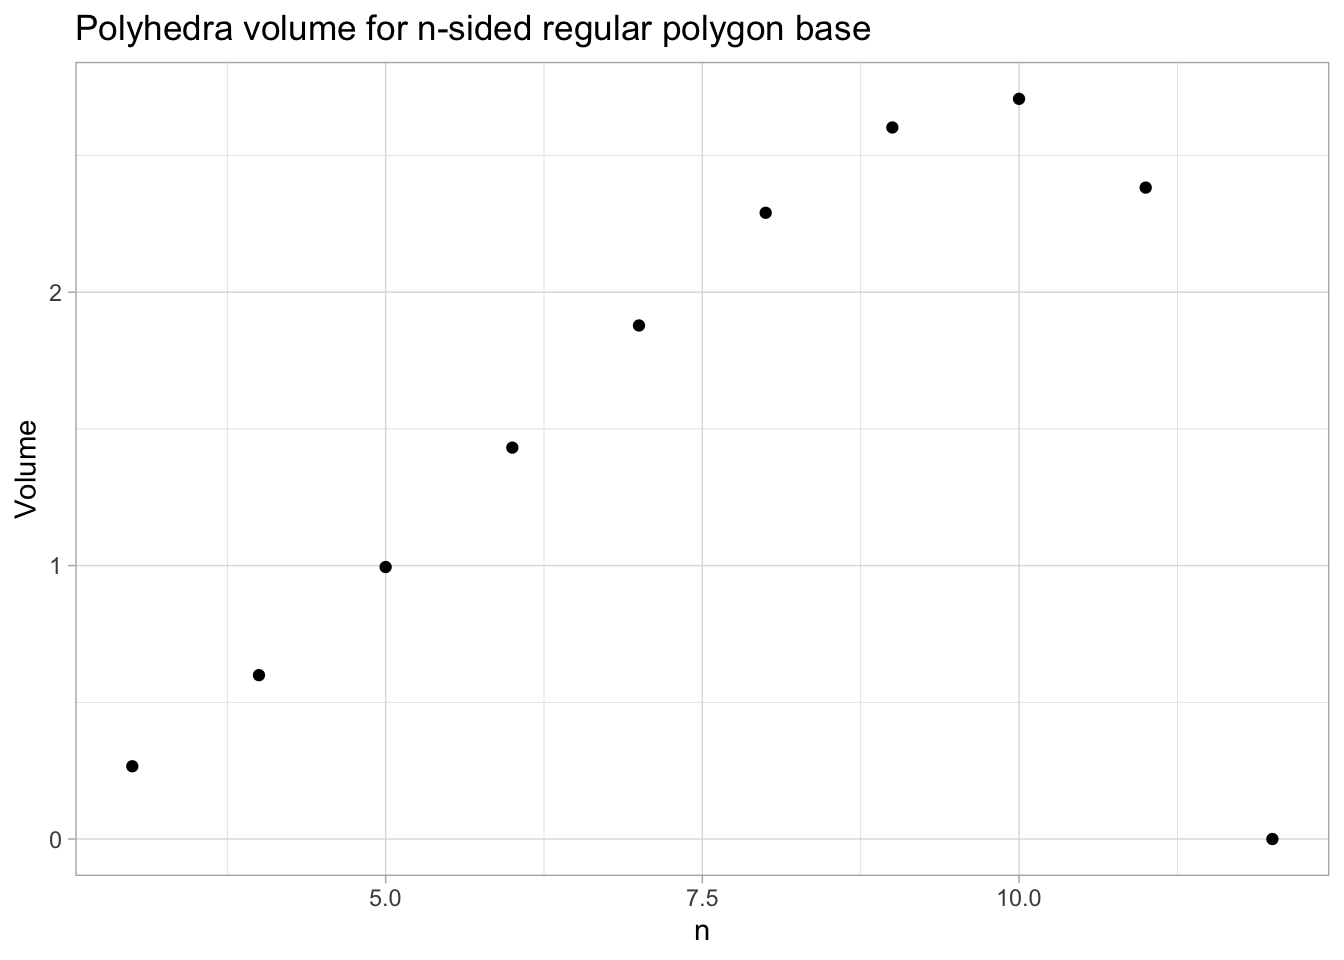
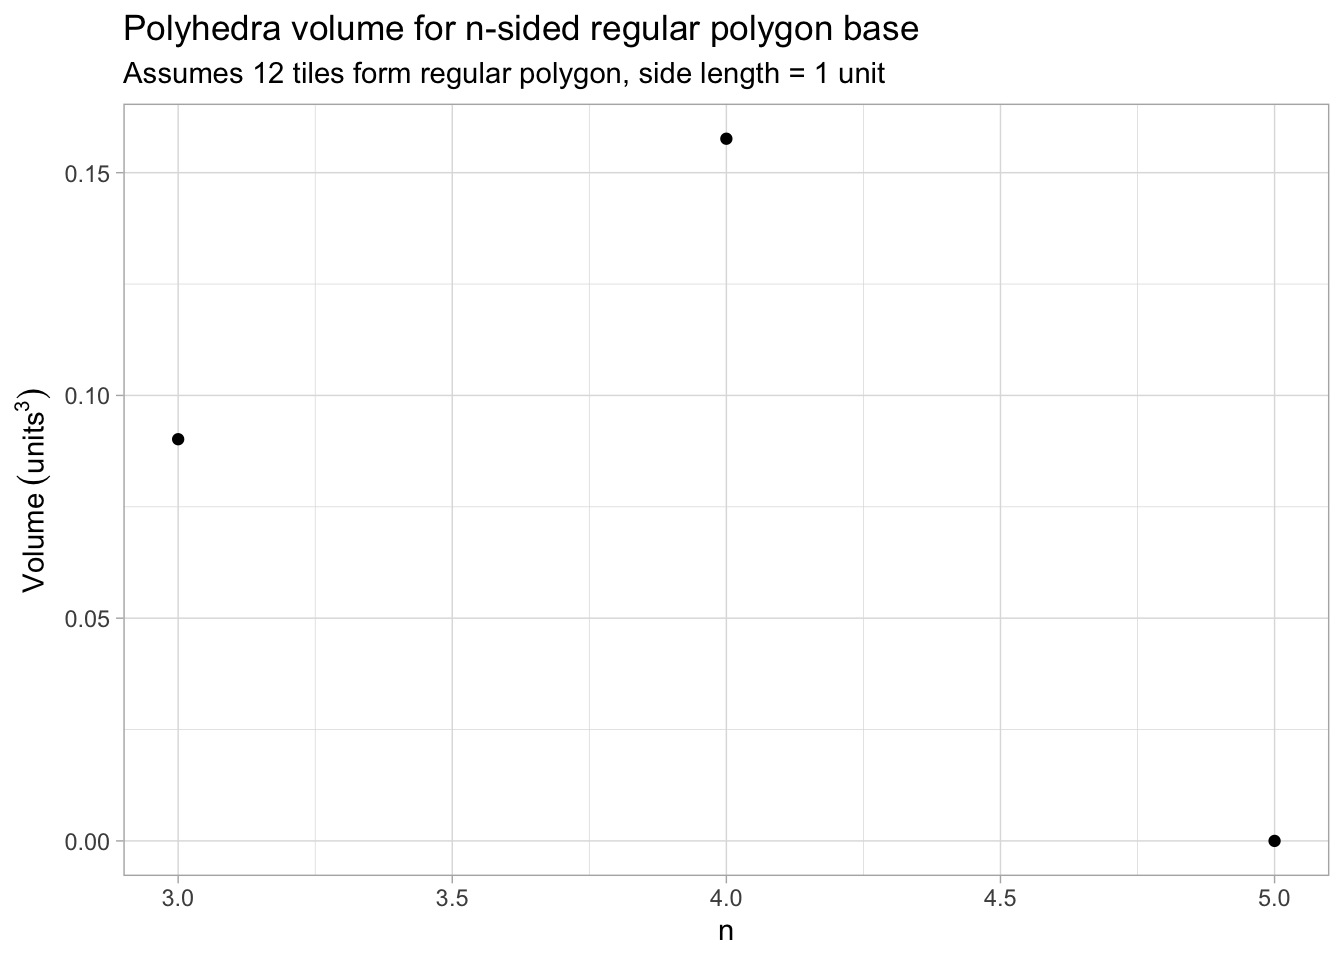
Update draft of riddler polyhedra

diff --git a/content/post/2020-01-31-riddler-magna-tiles-polyhedra.html b/content/post/2020-01-31-riddler-magna-tiles-polyhedra.html
@@ -20,61 +20,62 @@ tags:
 If Robert wanted to maximize the volume contained within the resulting pyramid (presumably to store as much candy for his daughter as possible), how many tiles should he use?</p>
 </blockquote>
 <hr />
-<p>Welcome back to your trigonometry class!
-<img src="https://sites.google.com/site/therealworldtrigonometry/_/rsrc/1460486510342/home/image.gif" alt="Trig class" /></p>
-<hr />
 <div id="results" class="section level2">
 <h2>Results</h2>
-<p>Let’s save the trig, and check out the results!</p>
-<p><img src="/post/2020-01-31-riddler-magna-tiles-polyhedra_files/figure-html/run_simulation-1.png" width="672" /></p>
-<p><img src="/post/2020-01-31-riddler-magna-tiles-polyhedra_files/figure-html/run_simulation_2-1.png" width="672" /></p>
-<p><img src="/post/2020-01-31-riddler-magna-tiles-polyhedra_files/figure-html/run_simulation_3-1.png" width="672" /></p>
+<p>Let’s save the trig for a moment, and check out the results!</p>
+<p><img src="/post/2020-01-31-riddler-magna-tiles-polyhedra_files/figure-html/plot_main_answer-1.png" width="672" /></p>
+<p>Instead of assuming that it lies flat with 12 tiles, let’s try out some
+other values.</p>
+<p><img src="/post/2020-01-31-riddler-magna-tiles-polyhedra_files/figure-html/plot_other_variants-1.png" width="672" /></p>
+<hr />
+<div class="figure">
+<img src="https://sites.google.com/site/therealworldtrigonometry/_/rsrc/1460486510342/home/image.gif" alt="Brace yourself - the trig is coming!" />
+<p class="caption"><em>Brace yourself - the trig is coming!</em></p>
+</div>
+<hr />
 </div>
 <div id="approach" class="section level2">
 <h2>Approach</h2>
-<p>Let’s start by looking at the tile. We know that 12 of these tiles will lay
-flat in a dodecahedron. That already tells us we have a 30-75-75 isoceles
-triangle.
-<span class="math display">\[
-\begin{aligned}
-\theta &amp; = \frac{2\pi}{f} \\
-\end{aligned}
-\]</span></p>
-<div id="the-tile" class="section level4">
-<h4>The tile</h4>
-<p>With side length <span class="math inline">\(a\)</span>, the height of the tile <span class="math inline">\(h_t\)</span> is given by:</p>
-<p><span class="math display">\[
-\begin{aligned}
-\tan(\tfrac{1}{2}\theta) &amp; = (\tfrac{1}{2}a) / h_t \\
-h_t &amp; = (\tfrac{1}{2}a)  \cot (\tfrac{1}{2}\theta) \\
-&amp; = (\tfrac{1}{2}a) \cot (\frac{\pi}{f})
-\end{aligned}
-\]</span></p>
-</div>
 <div id="the-base" class="section level4">
 <h4>The base</h4>
+<!-- https://stackoverflow.com/questions/255170/markdown-and-image-alignment -->
+<p><img style="padding: 0 15px; float: right;" src="/post/2020-01-31-riddler-magna-tiles-polyhedra_files/SVG/02-triangles-polygon.svg" height="250" width="250">
+Let’s start by looking at the base of the polyhedron.</p>
 <p>The base is a regular polygon with <span class="math inline">\(n\)</span> sides. We can divide that regular
-polygon into <span class="math inline">\(n\)</span> triangles by connecting the vertices to the center. (That
-will represent the base of a wedge of the polyhedra that we’re working
-towards.)</p>
-<p>The interior angle <span class="math inline">\(\phi\)</span> for those <span class="math inline">\(n\)</span> triangles in the base polygon:
-<span class="math display">\[
-\begin{aligned}
-\phi &amp; = \frac{2\pi}{n} \\
-\end{aligned}
-\]</span></p>
-<p>And then we can divide each triangle again in half by dropping a perpendicular
+polygon into <span class="math inline">\(n\)</span> triangles by connecting the vertices to the center. (We’re
+making wedges.).</p>
+<p>The interior angle <span class="math inline">\(\theta\)</span> for those <span class="math inline">\(n\)</span> triangles is <span class="math inline">\(\theta = \frac{2\pi}{n}\)</span>.<br />
+<br />
+<br />
+</p>
+<p><img style="padding: 0 15px; float: right;" src="/post/2020-01-31-riddler-magna-tiles-polyhedra_files/SVG/03-perpendicular-base.svg" height="250" width="250">
+And then we can divide each triangle again in half by dropping a perpendicular
 from the center to the side. How long is that perpendicular, <span class="math inline">\(p\)</span>? Well, we have
 basically the same equation as before, just using a different number of sides
 for the regular polygon.</p>
 $$
 <span class="math display">\[\begin{aligned}
-\tan(\tfrac{1}{2}\phi) &amp; = (\tfrac{1}{2}a) / p \\
-p &amp; = (\tfrac{1}{2}a)  \cot (\tfrac{1}{2}\phi) \\
+\tan(\tfrac{1}{2}\theta) &amp; = (\tfrac{1}{2}a) / p \\
+p &amp; = (\tfrac{1}{2}a)  \cot (\tfrac{1}{2}\theta) \\
 p &amp; = (\tfrac{1}{2}a) \cot (\frac{\pi}{n})
 
 \end{aligned}\]</span>
 <p>$$</p>
+</div>
+<div id="the-tile" class="section level4">
+<h4>The tile</h4>
+<p><img style="padding: 0 15px; float: right;" src="/post/2020-01-31-riddler-magna-tiles-polyhedra_files/SVG/04-dodecahedron.svg" height="250" width="250">
+Now, let’s look at the tiles that form the pyramid’s walls. For a moment,
+let’s imagine we had all the tiles and laid it out flat. Then the work we
+just did for the base can tell us the height of each tile, <span class="math inline">\(h_t\)</span>!</p>
+<p>We’re using <span class="math inline">\(n\)</span> to reference how many tiles we choose to use. So we’ll use
+<span class="math inline">\(f\)</span> for the number of tiles that allows us to lay the shape out flat. (In
+our setup, <span class="math inline">\(f = 12\)</span>.)</p>
+<p><span class="math display">\[
+\begin{aligned}
+h_t &amp; = (\tfrac{1}{2}a) \cot (\frac{\pi}{f})
+\end{aligned}
+\]</span></p>
 </div>
 <div id="the-wedge" class="section level4">
 <h4>The wedge</h4>
@@ -87,7 +88,8 @@ A_w &amp; = \tfrac{1}{2} \cdot p \cdot a \\
 &amp; = \tfrac{1}{4} a^2  \cot (\frac{\pi}{n})
 \end{aligned}
 \]</span></p>
-<p>And with the perpendicular distance along the base <span class="math inline">\(p\)</span>, and the tile height
+<p>Finally 3-D time! Let’s find how tall these wedges are! With the
+perpendicular distance along the base <span class="math inline">\(p\)</span>, and the tile height
 <span class="math inline">\(h_t\)</span> we obtained earlier, we can express the wedge height <span class="math inline">\(h_w\)</span>:</p>
 <p><span class="math display">\[
 \begin{aligned}
@@ -116,13 +118,17 @@ V &amp; = n \cdot V_w \\
 &amp; = n \cdot [\frac{1}{24} \cdot a^3 \cdot \cot(\frac{\pi}{n}) \sqrt{ \cot^2 (\frac{\pi}{f}) -  \cot^2 (\frac{\pi}{n})}]
 \end{aligned}
 \]</span></p>
+<p>Trig identifies are failing me, and the desire to differentiate this nastiness
+is pretty low. So, let’s leave this here.</p>
+<hr />
 </div>
 </div>
 <div id="code" class="section level2">
 <h2>Code</h2>
-<pre class="r"><code>n_flat &lt;- 12
-df &lt;- tibble(n = seq(3, n_flat), side = 1)
-# Degrees are implied from the flat config.
+<p><em>Full code available as a RMarkdown file on <a href="https://github.com/ravichandrasekaran/ravic_/content/post/2020-01-31-riddler-magna-tiles-polyhedra.Rmd">Github</a></em></p>
+<pre class="r"><code>df &lt;- tibble(n_flat = 3:100, side = 1) %&gt;%
+  mutate(n = map(n_flat, ~seq(3, .x))) %&gt;%
+  unnest(c(n))
 
 summ &lt;- df %&gt;%
   mutate(
@@ -133,11 +139,25 @@ summ &lt;- df %&gt;%
     wedge_volume = (1/3) * base_wedge_area * wedge_height,
     total_volume = n * wedge_volume) 
 
-summ %&gt;%
+plot_summ &lt;- function(num_tiles_flat) {
+  plt &lt;- summ %&gt;%
+    filter(n_flat == num_tiles_flat) %&gt;%
+    ggplot(aes(n, total_volume)) +
+    geom_point() +
+    theme_light() +
+    labs(
+      title = &quot;Polyhedra volume&quot;,
+      subtitle = glue::glue(&quot;{num_tiles_flat} lay flat&quot;),
+      x = &quot;n&quot;, y = bquote(&quot;Volume&quot; ~ (units^3)))
+  return(plt)
+}</code></pre>
+<pre class="r"><code>summ %&gt;%
+  filter(n_flat == 12) %&gt;%
   ggplot(aes(n, total_volume)) +
   geom_point() +
   theme_light() +
   labs(
     title = &quot;Polyhedra volume for n-sided regular polygon base&quot;,
-    x = &quot;n&quot;, y = &quot;Volume&quot;)</code></pre>
+    subtitle = &quot;Assumes 12 tiles lay flat, side length = 1&quot;,
+    x = &quot;n&quot;, y = bquote(&quot;Volume&quot; ~ (units^3)))</code></pre>
 </div>
